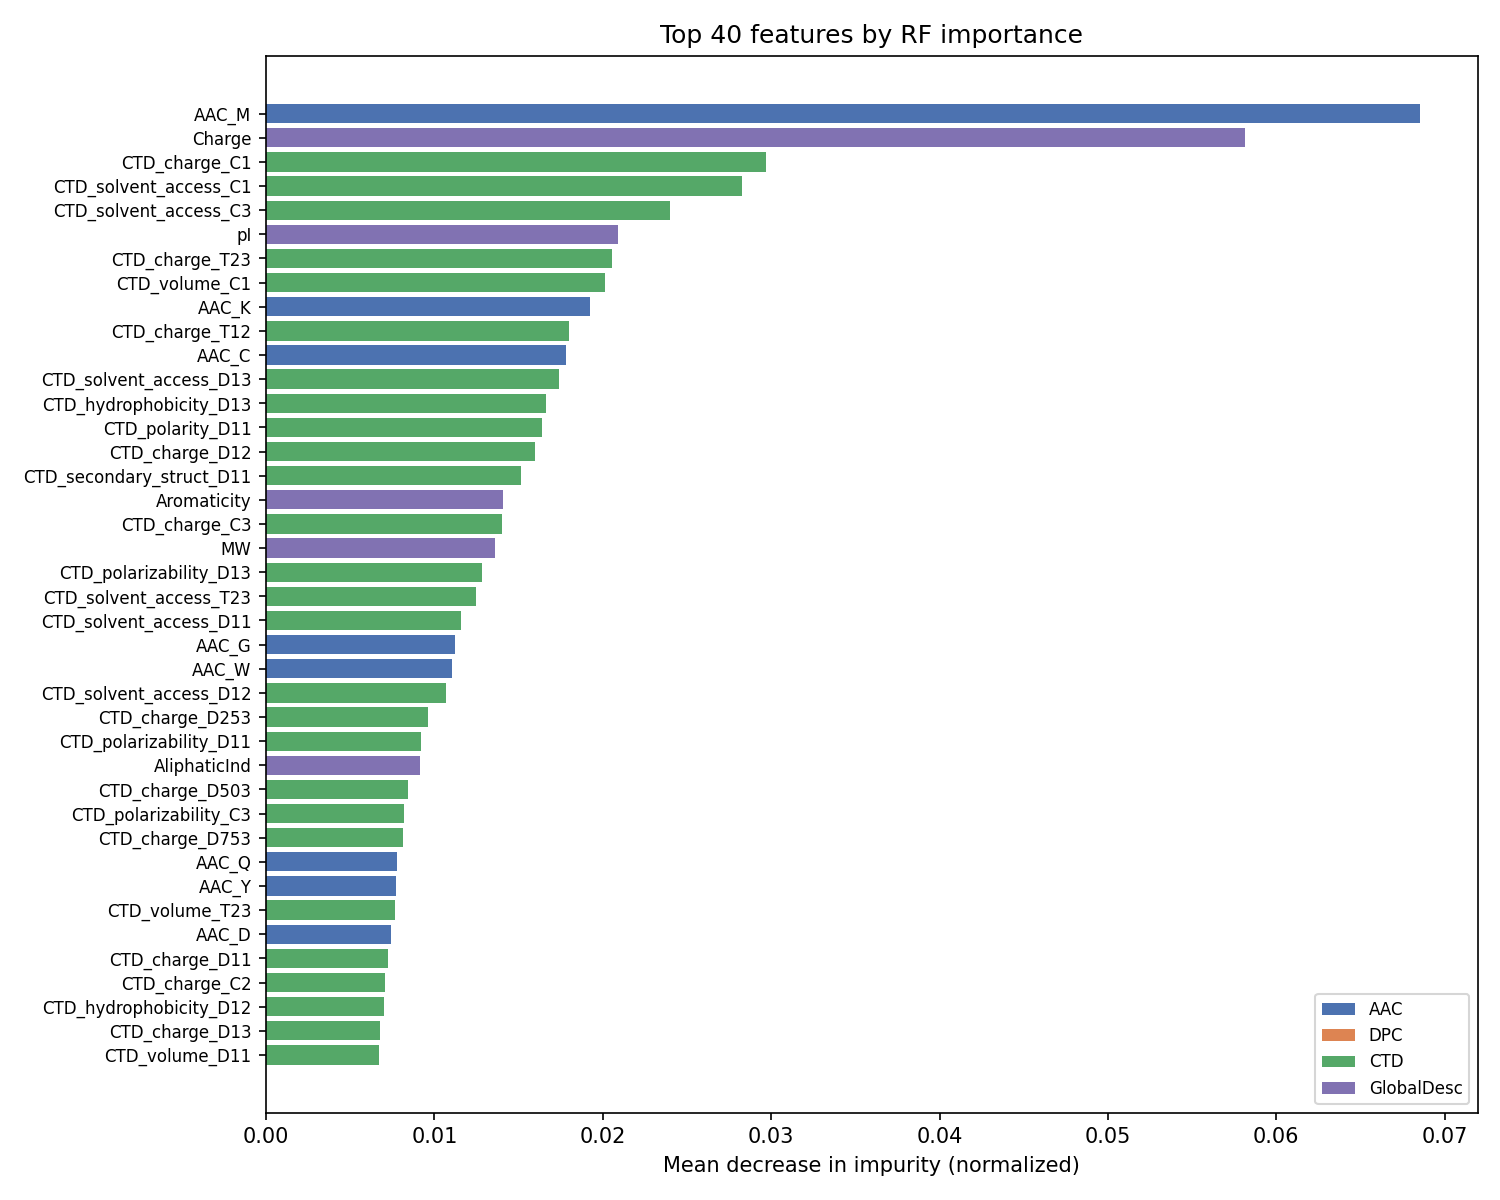
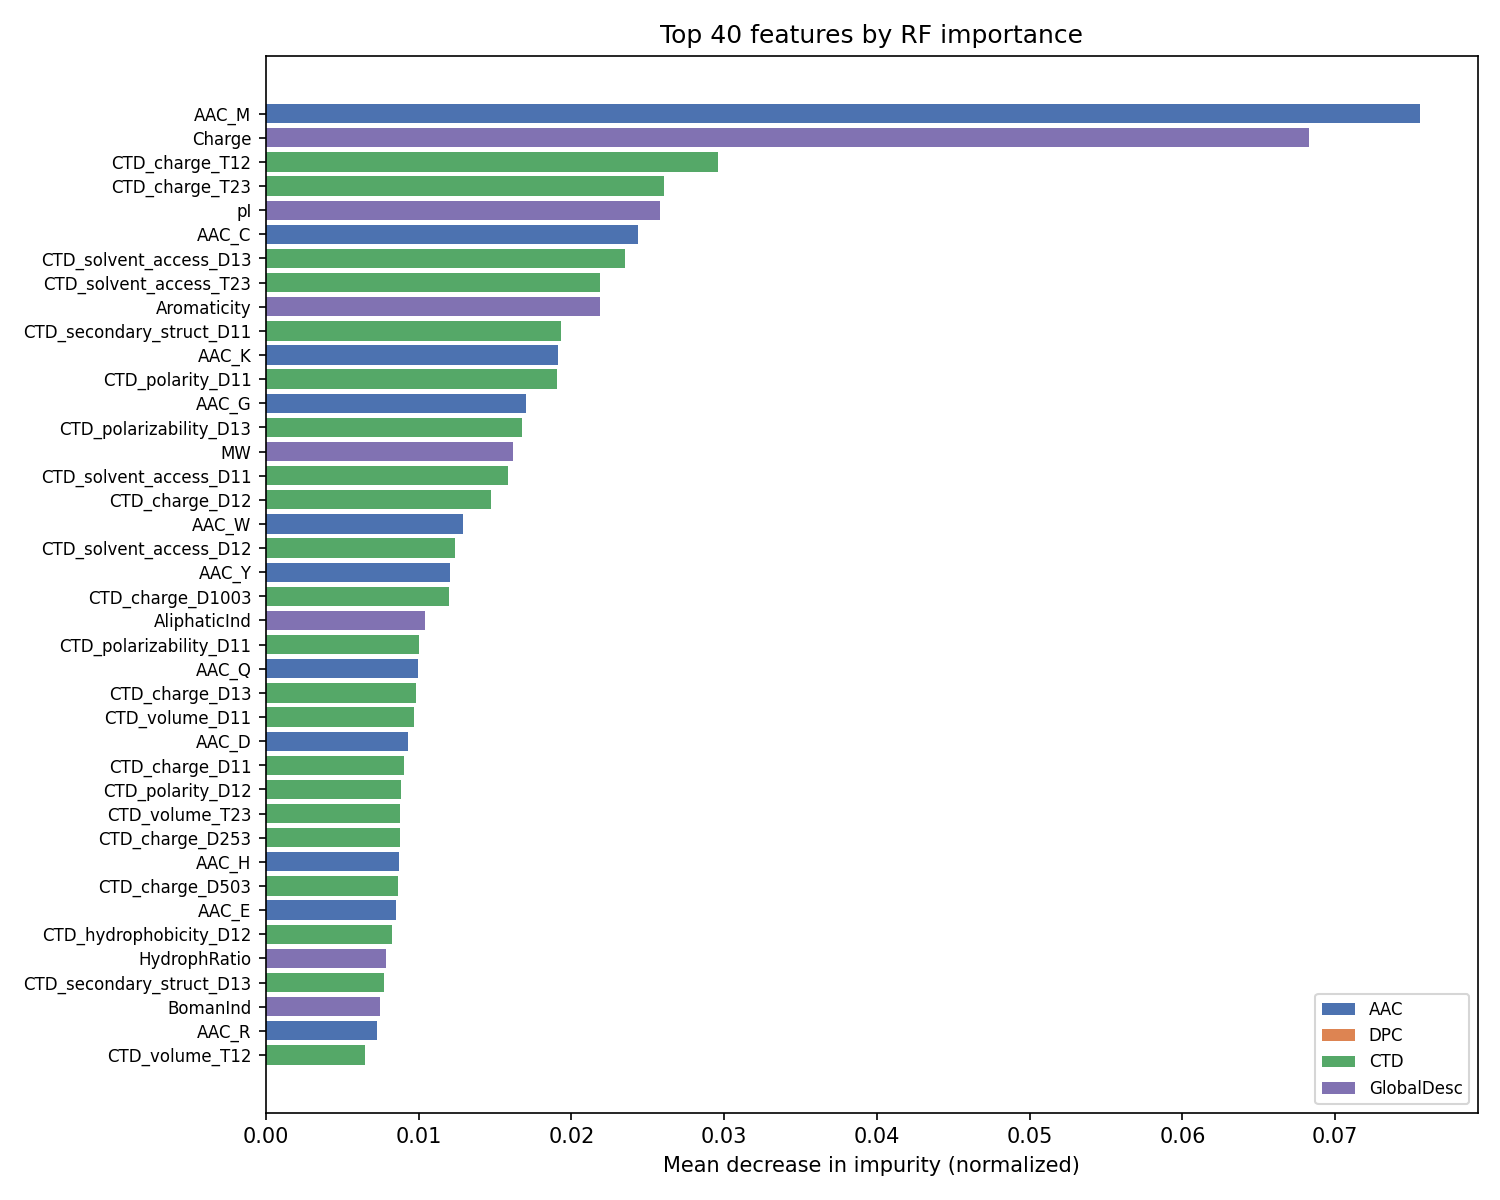
fix: correct structural collinearity in CTD Composition features
Three corrections applied to feature_analysis.py:

1. Structural filter (new Step 2): removes all CTD_*_C1/C2/C3 features
   before correlation analysis. Rationale: C1+C2+C3=1 by construction
   (Dubchak et al. 1995) creates perfect multicollinearity when all three
   groups are present; additionally CTD_C features are linear combinations
   of AAC (e.g. CTD_charge_C1 = AAC_K + AAC_R), making them redundant.
   CTD Transition and Distribution features are retained.

2. Correlation threshold lowered from 0.95 to 0.90 to capture 9 pairs
   that survived the previous threshold (highest: CTD_polarity_C1 <->
   CTD_hydrophobicity_C3, r=0.939, explained by 7/8 shared amino acids).

3. Scaler in RF importance step changed from StandardScaler to RobustScaler
   for consistency with the training pipeline.

Result: 577 -> 175 (variance) -> 154 (structural) -> 135 (correlation).
Final set: 8 GlobalDesc + 20 AAC + 107 CTD_T/D = 135 features.
Zero pairs with |r| > 0.90 remain.
Heatmaps updated to show feature labels at all dataset sizes.

diff --git a/model_training/feature_analysis.py b/model_training/feature_analysis.py
@@ -5,10 +5,16 @@
 # Pipeline:
 #   1. Load sequences and extract the full feature set (~577 features).
 #   2. Variance threshold: remove features with variance <= VARIANCE_THRESHOLD.
-#   3. Pearson correlation filter: remove one of each pair with |r| > CORR_THRESHOLD.
-#      The feature with lower mean absolute correlation to the rest of the set is kept.
-#   4. Random Forest importance ranking on the filtered feature set.
-#   5. Save:
+#   3. Structural filter: remove CTD Composition features (CTD_*_C1/C2/C3).
+#      Rationale: C1+C2+C3=1 by definition (Dubchak et al. 1995), creating
+#      perfect multicollinearity when all three groups are present. Additionally,
+#      CTD_C features are linear combinations of AAC features, making them
+#      structurally redundant. CTD Transition (T) and Distribution (D) are
+#      retained as they encode positional information absent from AAC.
+#   4. Pearson correlation filter: remove one of each pair with |r| > CORR_THRESHOLD.
+#      The feature with higher mean absolute correlation to the rest is dropped.
+#   5. Random Forest importance ranking on the filtered feature set.
+#   6. Save:
 #       - model_training/data/selected_features.txt  (feature names, one per line)
 #       - model_training/feature_analysis/fig_variance_distribution.png
 #       - model_training/feature_analysis/fig_correlation_heatmap_before.png
@@ -31,7 +37,7 @@ import seaborn as sns
 from sklearn.ensemble import RandomForestClassifier
 from sklearn.feature_selection import VarianceThreshold
 from sklearn.model_selection import train_test_split
-from sklearn.preprocessing import StandardScaler
+from sklearn.preprocessing import RobustScaler
 
 from amp_identifier.feature_extraction import calculate_physicochemical_features
 from amp_identifier.data_io import load_fasta_sequences
@@ -48,7 +54,7 @@ SELECTED_FEATURES_PATH = os.path.join(DATA_DIR, "selected_features.txt")
 RANDOM_STATE     = 42
 TEST_SIZE        = 0.2
 VARIANCE_THRESHOLD = 0.001  # remove features with variance <= this value
-CORR_THRESHOLD   = 0.95     # remove one of each pair with |r| > this value
+CORR_THRESHOLD   = 0.90     # remove one of each pair with |r| > this value
 RF_N_ESTIMATORS  = 200      # quick RF for importance ranking
 TOP_N_IMPORTANCE = 40       # how many top features to plot
 
@@ -85,6 +91,28 @@ def _variance_filter(X: pd.DataFrame) -> pd.DataFrame:
     removed = len(X.columns) - len(kept)
     print(f"Variance filter (threshold={VARIANCE_THRESHOLD}): "
           f"removed {removed}, kept {len(kept)}")
+    return X[kept]
+
+
+def _structural_filter(X: pd.DataFrame) -> pd.DataFrame:
+    """Remove CTD Composition features (CTD_*_C1, CTD_*_C2, CTD_*_C3).
+
+    CTD Composition features are excluded for two structural reasons:
+      1. C1+C2+C3=1 by construction (Dubchak et al. 1995): when all three
+         groups are present for a property, perfect multicollinearity exists.
+         Pairwise Pearson filters miss this because the individual r values
+         are negative and below the threshold.
+      2. CTD_C features are linear combinations of AAC features (e.g.,
+         CTD_charge_C1 = AAC_K + AAC_R), making them redundant with
+         information already encoded by the composition descriptors.
+    CTD Transition (T) and Distribution (D) features are retained: they
+    encode positional and sequential information not present in AAC.
+    """
+    import re
+    ctd_c_pattern = re.compile(r"^CTD_\w+_C[123]$")
+    to_drop = [c for c in X.columns if ctd_c_pattern.match(c)]
+    kept = [c for c in X.columns if c not in to_drop]
+    print(f"Structural filter (CTD_C removal): removed {len(to_drop)}, kept {len(kept)}")
     return X[kept]
 
 
@@ -159,25 +187,32 @@ def _plot_variance_distribution(X_full: pd.DataFrame, X_after_var: pd.DataFrame)
 
 
 def _plot_correlation_heatmap(corr: pd.DataFrame, title: str, filename: str):
-    """Clustermap of the absolute Pearson correlation matrix."""
+    """Clustermap of the absolute Pearson correlation matrix with feature labels."""
     n = corr.shape[0]
-    # With many features, hide individual tick labels
-    show_labels = n <= 60
+    # Scale figure and font so labels remain readable at any n
+    cell_size = max(0.13, min(0.22, 14.0 / n))
+    figsize   = (n * cell_size + 2, n * cell_size + 2)
+    font_size = max(4, min(8, int(130 / n)))
 
-    figsize = (max(10, n * 0.07), max(8, n * 0.07))
     g = sns.clustermap(
         corr,
         cmap="coolwarm",
         vmin=0, vmax=1,
         figsize=figsize,
-        xticklabels=show_labels,
-        yticklabels=show_labels,
-        linewidths=0 if n > 60 else 0.3,
-        cbar_kws={"shrink": 0.5, "label": "|Pearson r|"},
+        xticklabels=True,
+        yticklabels=True,
+        linewidths=0,
+        cbar_kws={"shrink": 0.4, "label": "|Pearson r|"},
     )
-    g.fig.suptitle(title, y=1.01, fontsize=11)
+    g.ax_heatmap.set_xticklabels(
+        g.ax_heatmap.get_xticklabels(), fontsize=font_size, rotation=90
+    )
+    g.ax_heatmap.set_yticklabels(
+        g.ax_heatmap.get_yticklabels(), fontsize=font_size, rotation=0
+    )
+    g.fig.suptitle(title, y=1.01, fontsize=10)
     path = os.path.join(OUT_DIR, filename)
-    g.savefig(path, dpi=FIGURE_DPI)
+    g.savefig(path, dpi=FIGURE_DPI, bbox_inches="tight")
     plt.close(g.fig)
     print(f"  Saved: {path}")
 
@@ -316,23 +351,35 @@ def main():
     print("  Plotting variance distribution...")
     _plot_variance_distribution(X, X_var)
 
-    # 3. Correlation filter
-    print("\n--- Step 2: Correlation filter ---")
+    # 3. Structural filter: remove CTD_C features
+    print("\n--- Step 2: Structural filter (CTD Composition removal) ---")
+    X_struct = _structural_filter(X_var)
+    n_after_struct = X_struct.shape[1]
+    report_lines += [
+        f"Structural filter (CTD_C) : removed {n_after_var - n_after_struct}, "
+        f"kept {n_after_struct}",
+        f"  Rationale: C1+C2+C3=1 (perfect multicollinearity) and CTD_C",
+        f"  features are linear combinations of AAC (Dubchak et al. 1995).",
+        "",
+    ]
+
+    # 4. Correlation filter
+    print("\n--- Step 3: Correlation filter ---")
     print("  Computing correlation matrix before filtering...")
-    corr_before = X_var.corr(method="pearson").abs()
+    corr_before = X_struct.corr(method="pearson").abs()
 
     print("  Plotting correlation heatmap (before)...")
     _plot_correlation_heatmap(
         corr_before,
-        f"Absolute Pearson correlation — before filtering (n={n_after_var})",
+        f"Absolute Pearson correlation — before filtering (n={n_after_struct})",
         "fig_correlation_heatmap_before.png",
     )
 
-    X_final, corr_before_ret = _correlation_filter(X_var)
+    X_final, corr_before_ret = _correlation_filter(X_struct)
     n_final = X_final.shape[1]
     report_lines += [
         f"Correlation threshold     : {CORR_THRESHOLD}",
-        f"Removed by corr filter    : {n_after_var - n_final}",
+        f"Removed by corr filter    : {n_after_struct - n_final}",
         f"Features after corr filter: {n_final}",
         "",
     ]
@@ -348,12 +395,12 @@ def main():
     print("  Plotting correlation histogram...")
     _plot_correlation_histogram(corr_before_ret, X_final)
 
-    # 4. RF importance
-    print("\n--- Step 3: RF importance ranking ---")
+    # 5. RF importance
+    print("\n--- Step 4: RF importance ranking ---")
     X_train, _, y_train, _ = train_test_split(
         X_final, y, test_size=TEST_SIZE, random_state=RANDOM_STATE, stratify=y
     )
-    scaler = StandardScaler()
+    scaler = RobustScaler()
     X_train_sc = pd.DataFrame(
         scaler.fit_transform(X_train),
         columns=X_train.columns,
@@ -362,17 +409,17 @@ def main():
     importance = _rf_importance(X_train_sc, y_train)
     _plot_feature_importance(importance)
 
-    # 5. Group summary
+    # 6. Group summary
     print("  Plotting feature group summary...")
     _plot_feature_group_summary(X, X_final)
 
-    # 6. Save selected features
+    # 7. Save selected features
     with open(SELECTED_FEATURES_PATH, "w") as f:
         for feat in X_final.columns:
             f.write(feat + "\n")
     print(f"\nSelected features saved -> {SELECTED_FEATURES_PATH}  ({n_final} features)")
 
-    # 7. Report
+    # 8. Report
     report_lines += [
         f"Final selected features   : {n_final}",
         "",
